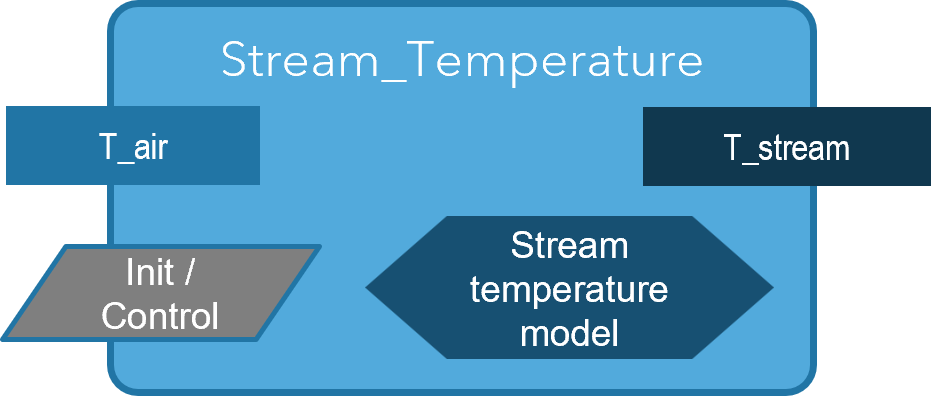
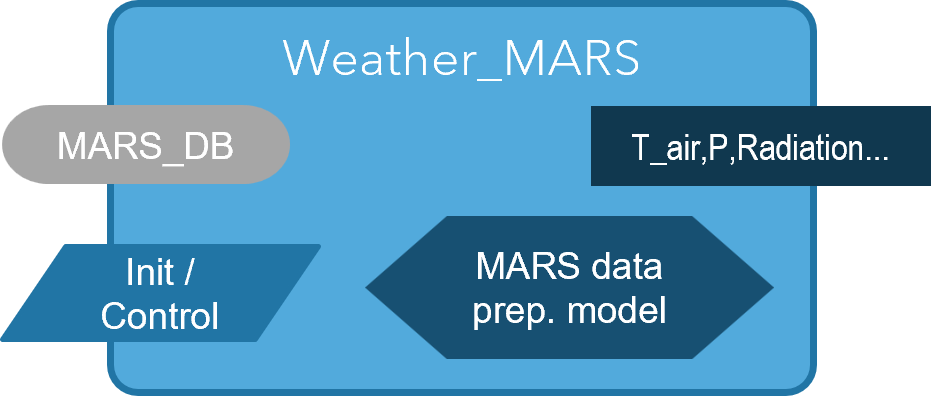
continue on 'xLandscape'

diff --git a/docs/xLandscape/xLandscape-v1x.md b/docs/xLandscape/xLandscape-v1x.md
@@ -92,13 +92,16 @@ Example *components* are introduced in section [Components](../xLandscape/xLands
 
 ## Landscape Model Composition
 
-**A composition of *components* and the *core* builds a landscape model.**  
-[Example Landscape Models](../xLandscape/xLandscape-models.md) built using the xLandscape framework are [xAquatic](../xLandscape/xLandscape-models.md#xaquatic-invertebrates), to simulate exposure and effects of aquatic organisms in catchments, or [xOff-Field-Soil](../xLandscape/xLandscape-models.md#xofffieldsoil), to calculate exposure of soil organisms living next to fields. 
+**A composition of *components* and the *core* builds a landscape model.** [Example Landscape Models](../xLandscape/xLandscape-models.md) built are [xAquatic](../xLandscape/xLandscape-models.md#xaquatic-invertebrates), to simulate exposure and effects of aquatic organisms in catchments, [xOff-Field-Soil](../xLandscape/xLandscape-models.md#xofffieldsoil), to calculate exposure of soil organisms living next to fields, or [xPollinator](../xLandscape/xLandscape-models.md#xpollinator) to simulate nectar and pollen occurrence for building bee modelling scenarios.
 
 The graphic below shows the composition of a very simple Landscape Model that inputs a stream network, together with weather data, in order to calculate stream temperature:
 
-- 
-- the Landscape Model is **parameterised using an XML file** (eg, to define the landscape scenario and simulation time period)
+- The model is built using **2 *components***: 'Weather_MARS' inputs (external) weather data (from the EU 'MARS' database) and writes defined data (eg, air temperature, T_air) into the landscape model storage, whereas *component* 'Stream_Temperature' takes T_air from the store and transfers this to an estimated stream temperature (T_stream) using a model.
+- The **blue 'L' represents the xLandscape [*core*](#core)**. The light blue rectancle-shaped background represents the semantically-enriched space of this specific model (eg, T_air is defined with a unit and assigned spatial and temporal scales; T_air is consistantly available to all *components* of the model).
+- The Landscape Model is **parameterised using an XML file** (eg, to define the landscape scenario and simulation time period; grey box)
+- Typical landscape model input data (green box) comprises land use/cover, weather, habitats and pesticide use, yet, depends on the landscape model.
+- The ***Data Storage*** contains all data defined by the landscape model designer, as relevant to the landscape model application (inputs, interim, and model outputs). Thus, the *Data Storage* can be recognised as representing *'the landscape'* from the view of the model purpose. Eg, [xAquatic](../xLandscape/xLandscape-models.md#xaquatic-invertebrates) stores data on land use, weather, hydrology, PPP use, stream exposure and effects on aquatic invertegrates, whereas [xPollinator](../xLandscape/xLandscape-models.md#xpollinator) outputs stores nectar and pollen occurrence by space and time. 
+
 
 <img src="../img/xLandscape model building scheme.png" alt="xlandscape" width="1000"/>  
 
@@ -126,6 +129,9 @@ You will read the term ***component*** quite often in the context of *xLandscape
 early module: [xDrift](../xLandscape/xLandscape-components.md#xdrift).
 
 ## Multidimensional Data Store - *'The Landscape'*
+
+
+represents 'the landscape', ie such data that is defined (by model design and configuration) to be input or generated, representing the landscape information that is inteded to be kept for the model purpose (outcome)  
 
 might ask *'what is actually the landscape in your landscape model'*  
 > There is only those data in the data store that is required by the modelling purposes and defined valuable for analysis by the user  
